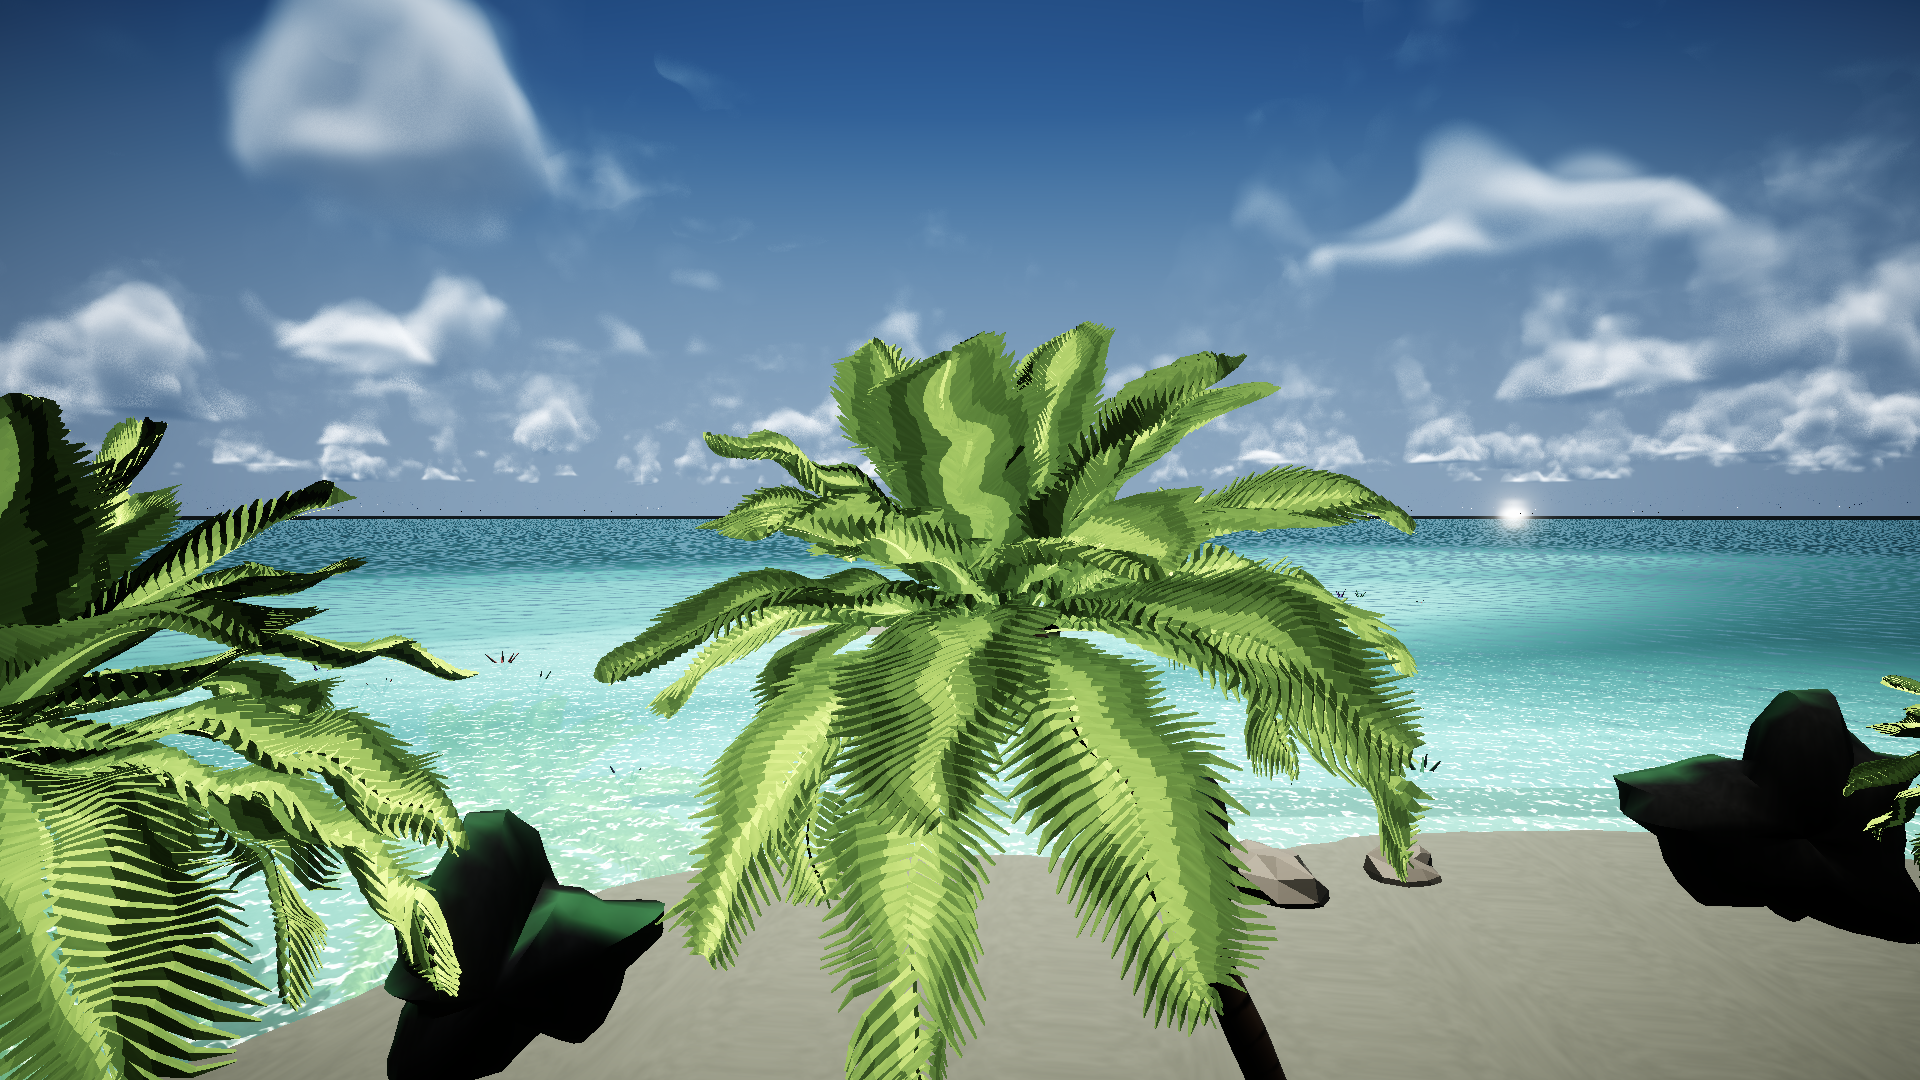
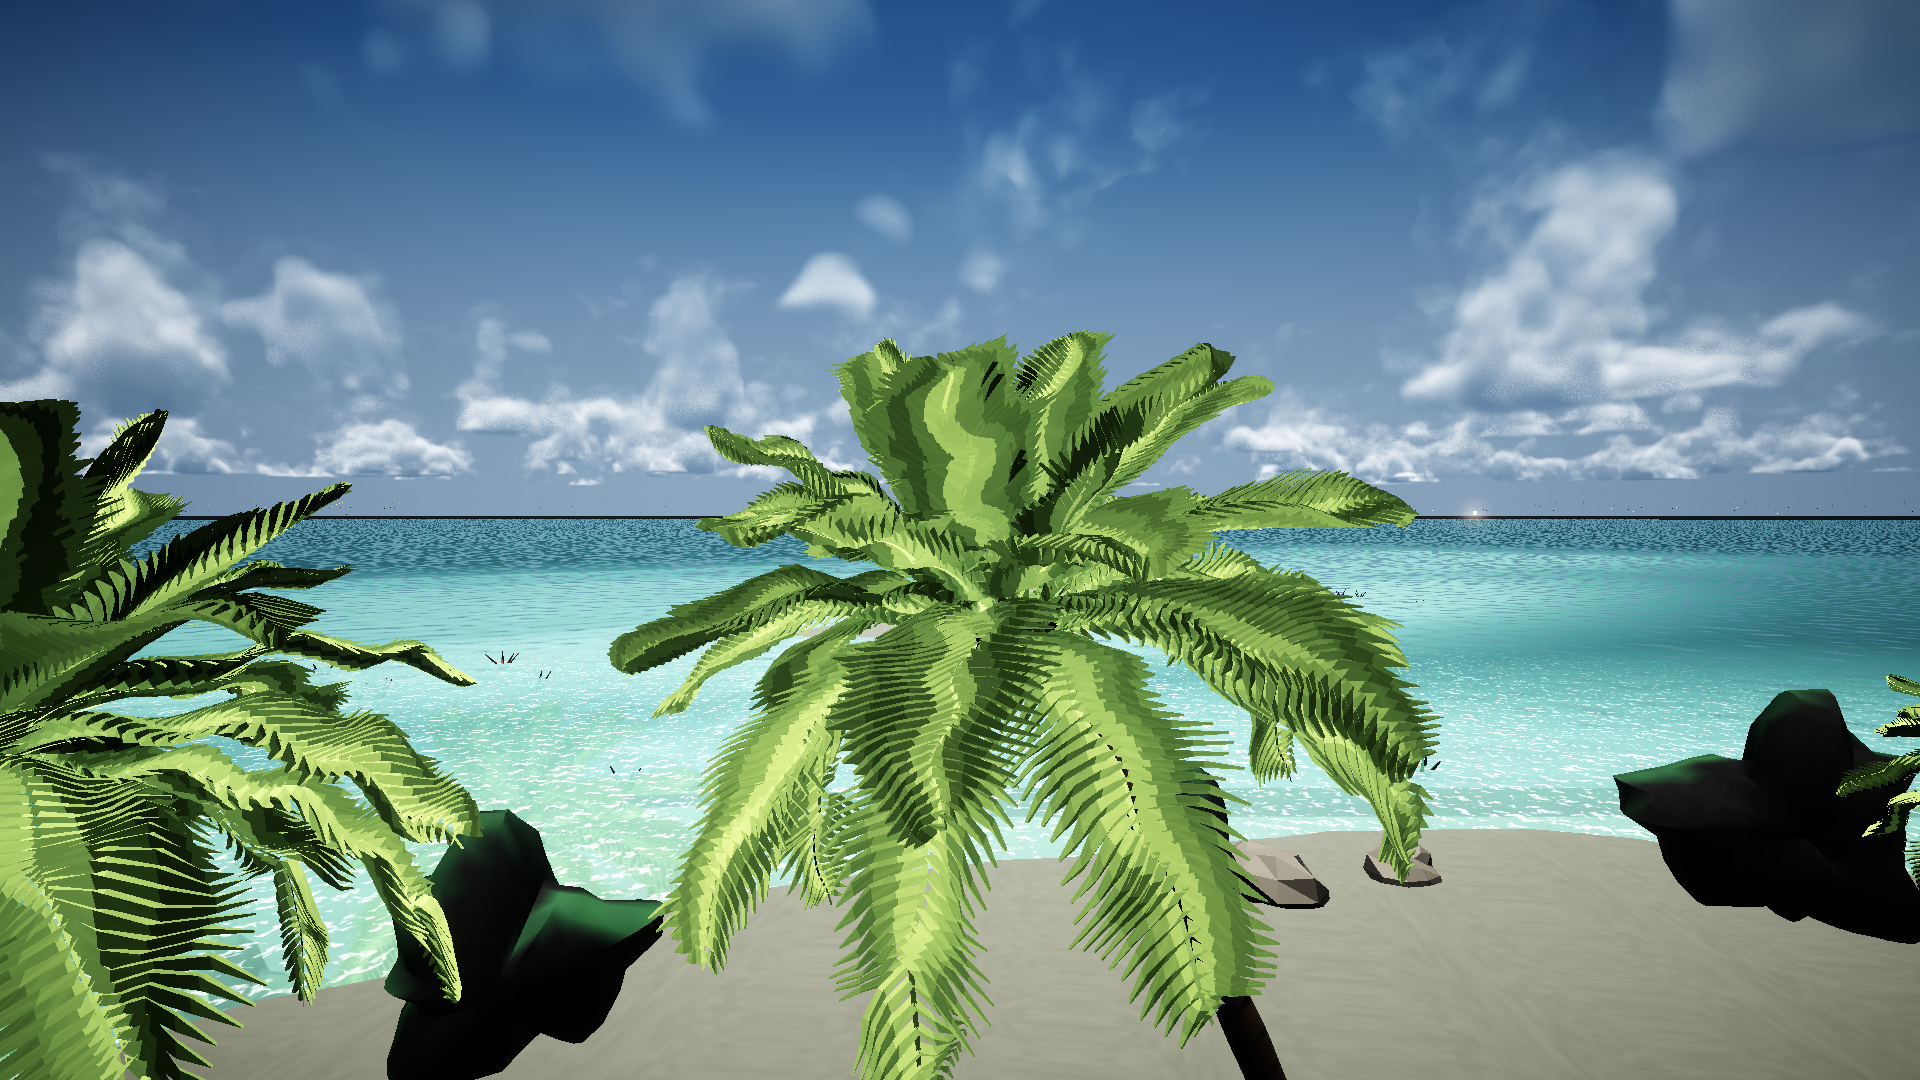
docs(R74): 自我纠正 —— 云参数其实生效, R65/R72 的'0.00%差异'是采到同一帧造成的假结论. ①加 _SkyDebug 直接验证: _CloudCover 0.3->0.9 同点采样 RGB 163->173; 改 _NightAmount 天空94.6%像素变化 => 材质生效 ②根因: Seq/95 连续调用会复用同一帧(文件名/mtime都不同但像素相同) => 只比统计量/文件名会漏 ③写入 AGENTS 第22条: A/B 必须比对像素差>8的占比, >0 才算换了帧 ④Sky_IsletTropical 已还原(_CloudCover0.3/_SkyDeb

diff --git a/AGENTS.md b/AGENTS.md
@@ -188,3 +188,8 @@ python Tools/Video/segment_report.py --start 3000 --end 3450 --region sky
     打开看发现"Main"那张其实是 Pond 的画面。哈希不同是因为 PNG 里带了时间戳块，**不能靠 MD5 判断新鲜度**。
     判定办法：①比对**像素统计**（亮度/对比/饱和）是否与上一张雷同；②必要时在画面里放一个当帧时间戳/场景名的 UI 文字。
     无人值守批量截图请走后台泵 `Tools/Seq/93/94`（见第 14 条），并**每张都做统计比对**。
+
+22. **A/B 必须比对"像素差"，不能只比统计量或文件名**（R74 实测）：`Seq/95` 连续调用时可能**复用同一帧**
+    （文件名不同、mtime 也不同，但像素完全一样）。R65/R72 就因此得出了"云参数改了没反应"的错误结论，
+    后来用 `_SkyDebug` 直接验证才发现 `_CloudCover 0.3→0.9` 是有变化的。
+    **判据**：`np.abs(a-b).sum(2) > 8` 的像素占比必须 > 0 才算"真的换了一帧"。
